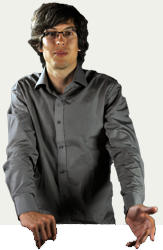
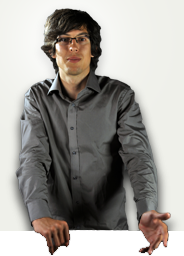
opravene chyby od ivana

diff --git a/public/stylesheets/scaffold.css b/public/stylesheets/scaffold.css
@@ -324,7 +324,7 @@ ul.horizontal li{
 
 #content .contact_us .hr{
 	border-bottom: 1px solid #2b2b2b;
-	width: 500px;
+	width: 100%;
 }
 
 #content .contact_us .contact_now{
@@ -360,6 +360,7 @@ ul.horizontal li{
 
 #content .contact_us .scene .buble p{
 	font-size: 0.9em;
+	text-align: center;
 }
 
 #content .contact_us .scene .buble1{
@@ -415,7 +416,7 @@ ul.horizontal li{
 #content .hiw .scene{
 	position:absolute;
 	bottom:-30px;
-	left:150px;
+	left:110px;
 }
 
 #content .hiw .buble1{
@@ -562,7 +563,7 @@ ul.horizontal li{
 /* home */
 
 #content .home{
-	height: 400px;
+	height: 500px;
 	position:relative;
 }
 
@@ -576,8 +577,8 @@ ul.horizontal li{
 	right: 20px;
 	bottom: 140px;
 	background: url(/images/web/home/home_buble.png) no-repeat top left;
-	width: 95px;
-	height: 56px;
+	width: 120px;
+	height: 80px;
 }
 
 #content .home .scene #buble p{
